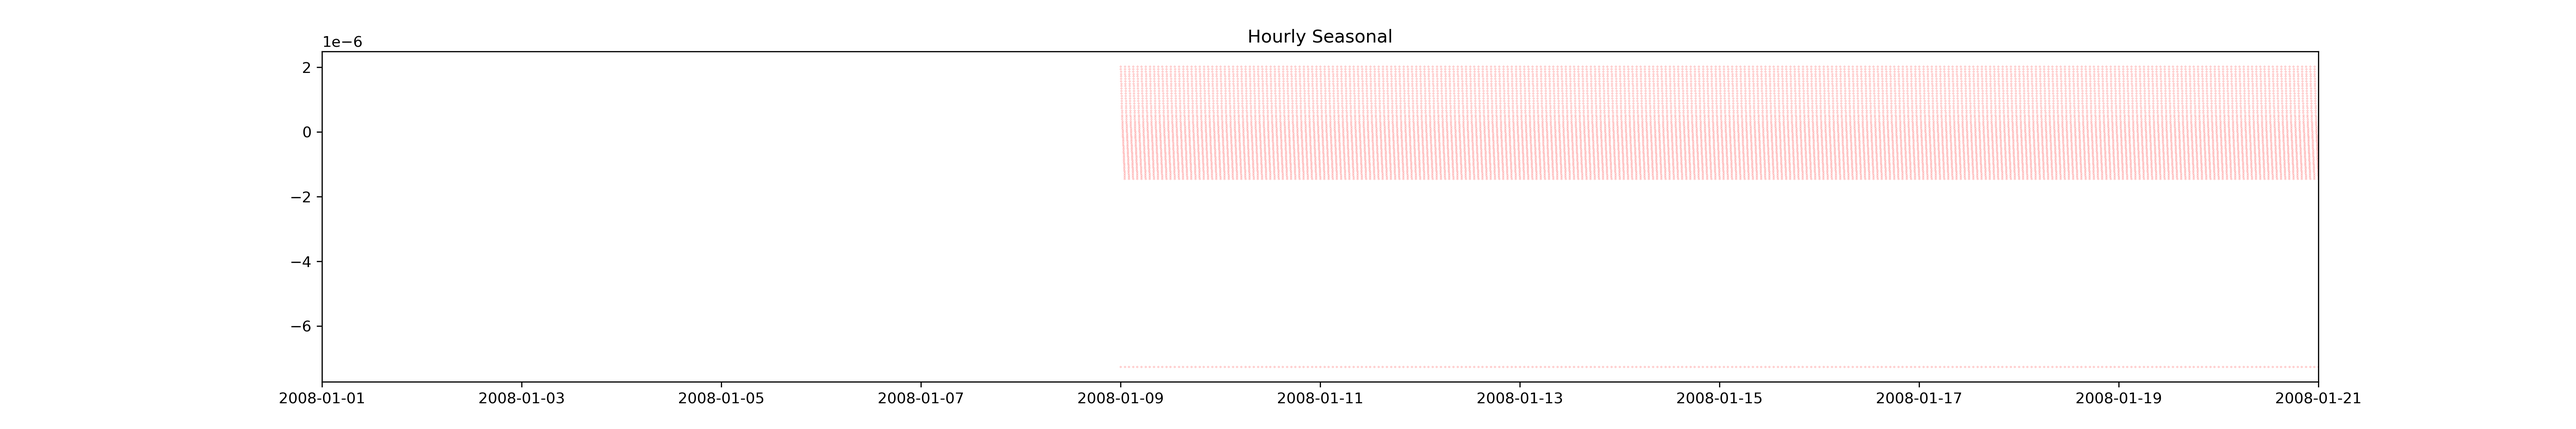
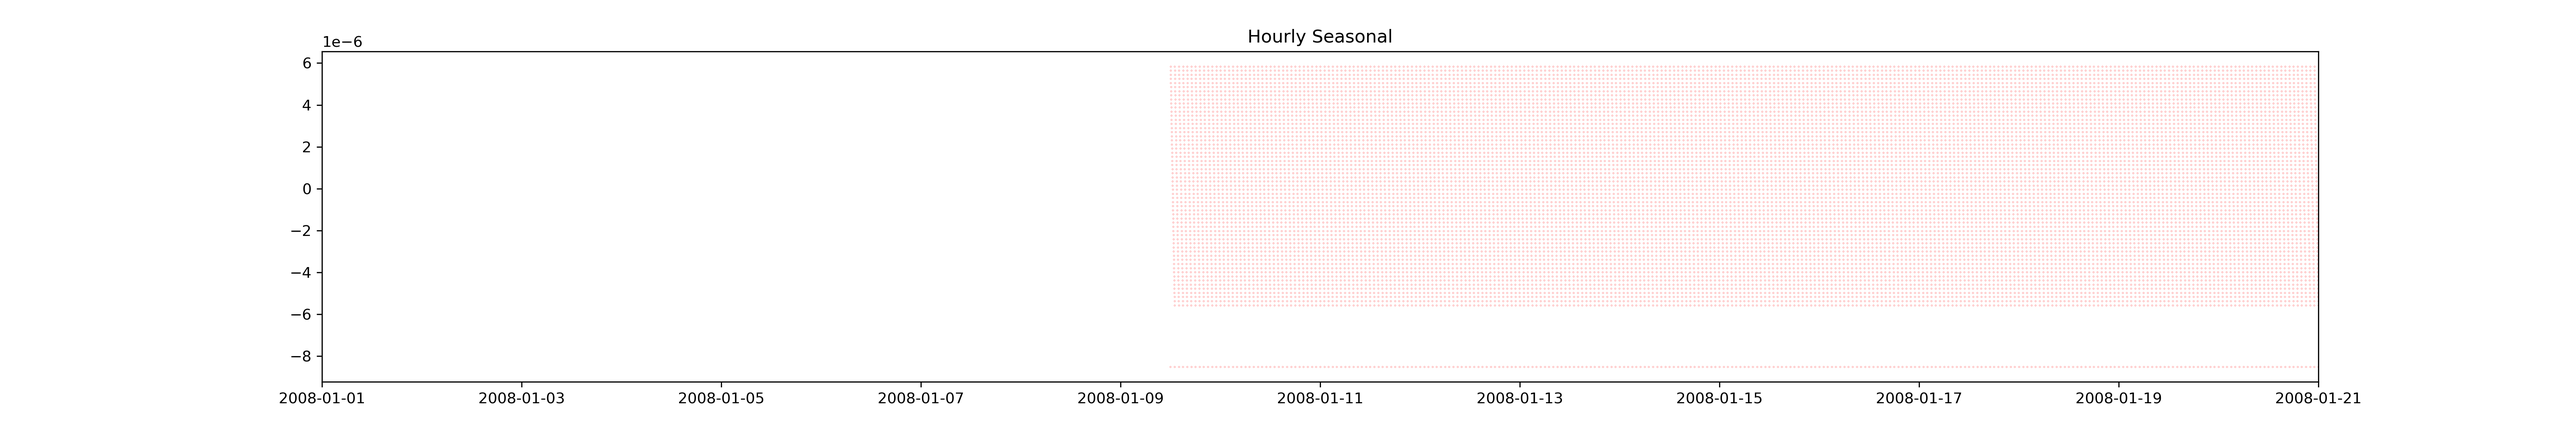
added in power spectral analysis

Changed region(s): [[0.4375, 0.1542, 0.9062, 0.4933], [0.4688, 0.555, 0.875, 0.6167]]

diff --git a/scratch.py b/scratch.py
@@ -1,0 +1,48 @@
+# %% Setup
+import matplotlib.pyplot as plt
+
+from clean_data import clean_data, fill_missing_values, filter_timeseries
+from load_data import get_data_from_uci
+
+DATA_PATH = "./data/household_power_consumption.txt"
+START_DATE = "2008-01-01"
+END_DATE = "2008-01-21"
+WEEK_PERIOD = 60 * 24 * 7
+DAY_PERIOD = 60 * 24
+HOUR_PERIOD = 60
+
+plt.rcParams["savefig.dpi"] = 300
+
+# %% Load data
+print("Loading data...")
+get_data_from_uci(DATA_PATH)
+X = clean_data(DATA_PATH)
+X = filter_timeseries(X, START_DATE, END_DATE)
+X = fill_missing_values(X)
+
+# %% Plot timeseries
+# plot_timeseries(X)
+from scipy import signal
+
+# fs is the sampling frequency: here it is every minute
+fs = 60 * 24 * 7
+f, Pxx_den = signal.periodogram(X["power"], fs=fs)
+
+fig, ax = plt.subplots(figsize=(12, 6))
+ax.plot(f, Pxx_den)
+ax.set_xlabel("Frequency ")
+ax.set_ylabel("Power Spectral Density")
+plt.title("Periodogram (Minute level data)")
+
+
+# Add vertical lines for hourly and weekly frequencies
+# ax.axvline(x=fs / 60, color="r", linestyle="--", alpha=0.5, label="Hourly")
+ax.axvline(x=fs / (60 * 24), color="g", linestyle="--", alpha=0.5, label="Daily")
+ax.axvline(x=fs / (60 * 6), color="r", linestyle="--", alpha=0.5, label="2x Daily")
+ax.axvline(x=fs / (60 * 12), color="b", linestyle="--", alpha=0.5, label="4x Daily")
+# ax.axvline(x=fs / (7 * 60 * 24), color="b", linestyle="--", alpha=0.5, label="Weekly")
+
+ax.set_xscale("log")
+
+plt.savefig("./figs/power_spectral_density.png")
+plt.show()

diff --git a/main.py b/main.py
@@ -11,6 +11,7 @@ START_DATE = "2008-01-01"
 END_DATE = "2008-01-21"
 WEEK_PERIOD = 60 * 24 * 7
 DAY_PERIOD = 60 * 24
+H12_PERIOD = 60 * 12
 HOUR_PERIOD = 60
 
 plt.rcParams["savefig.dpi"] = 300
@@ -53,8 +54,19 @@ if __name__ == "__main__":
     plt.title("Daily Seasonal")
     plt.savefig("./figs/daily_decomposition.png")
 
+    h12_decomposition = seasonal_decompose(
+        daily_trend.dropna(), model="additive", period=H12_PERIOD, two_sided=False
+    )
+    h12_trend = h12_decomposition.trend
+    Y = h12_decomposition.seasonal.to_frame(name="power")
+    fig, ax = plt.subplots(figsize=(24, 4))
+    ax.set_xlim(np.datetime64(START_DATE), np.datetime64(END_DATE))
+    ax.scatter(Y.index, Y["power"], color="red", s=0.01)
+    plt.title("Twice Daily Seasonal")
+    plt.savefig("./figs/h12_decomposition.png")
+
     hourly_decomposition = seasonal_decompose(
-        daily_trend.dropna(), model="additive", period=HOUR_PERIOD, two_sided=False
+        h12_trend.dropna(), model="additive", period=HOUR_PERIOD, two_sided=False
     )
     hourly_trend = hourly_decomposition.trend
     Y = hourly_decomposition.seasonal.to_frame(name="power")
@@ -68,6 +80,7 @@ if __name__ == "__main__":
     residual = (
         power
         - hourly_trend
+        - h12_decomposition.seasonal
         - hourly_decomposition.seasonal
         - daily_decomposition.seasonal
         - weekly_decomposition.seasonal

diff --git a/results.md b/results.md
@@ -5,6 +5,12 @@ So I'm using the `household_power_consumption.txt` dataset from the UCI Machine 
 The dataset is stored in a text file, with each line representing a household and the columns representing the date, time, and the electricity consumption in kilowatt-hours (kWh). The data is in the format `Date, Time, Global_active_power`.
 
 
+## Power Spectral Density
+
+![power_spectral_density](figs/power_spectral_density.png)
+
+Having inspected this we're not expecting to see much of a seasonal pattern at the weekly level.
+Most of the emphasis is daily, 12 hourly, or 6 hourly
 
 
 ## Seasonal decomposition
@@ -14,6 +20,9 @@ The dataset is stored in a text file, with each line representing a household an
 
 ### Daily
 ![daily_decomposition](figs/daily_decomposition.png)
+
+### Twice Daily
+![h12_decomposition](figs/h12_decomposition.png)
 
 ### Hourly
 ![hourly_decomposition](figs/hourly_decomposition.png)
